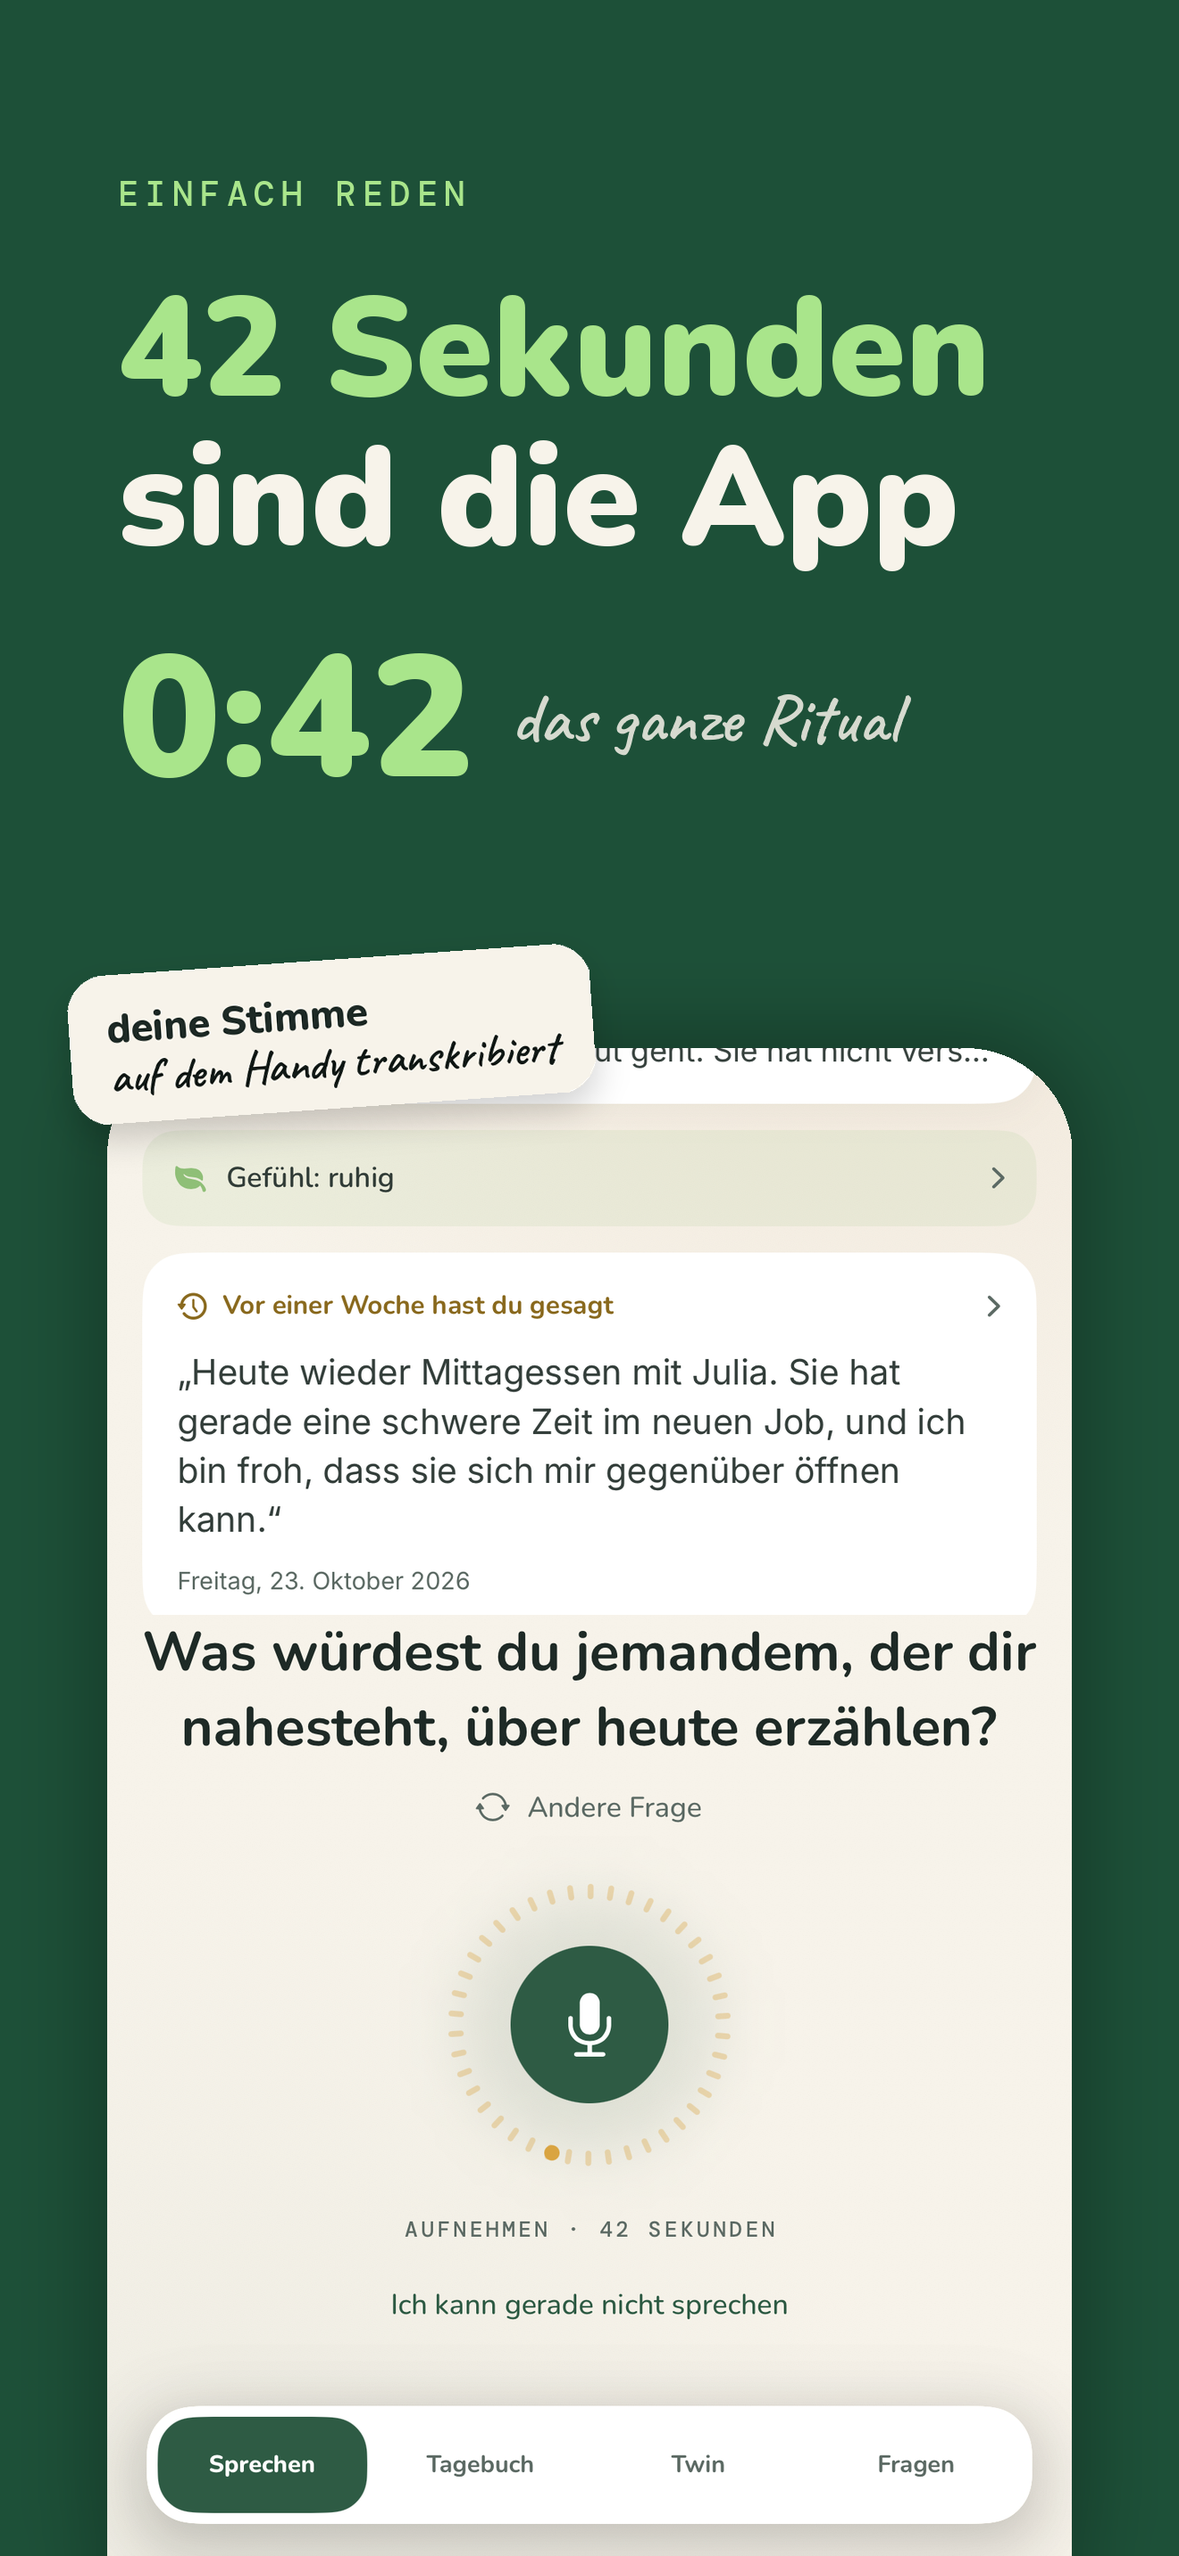
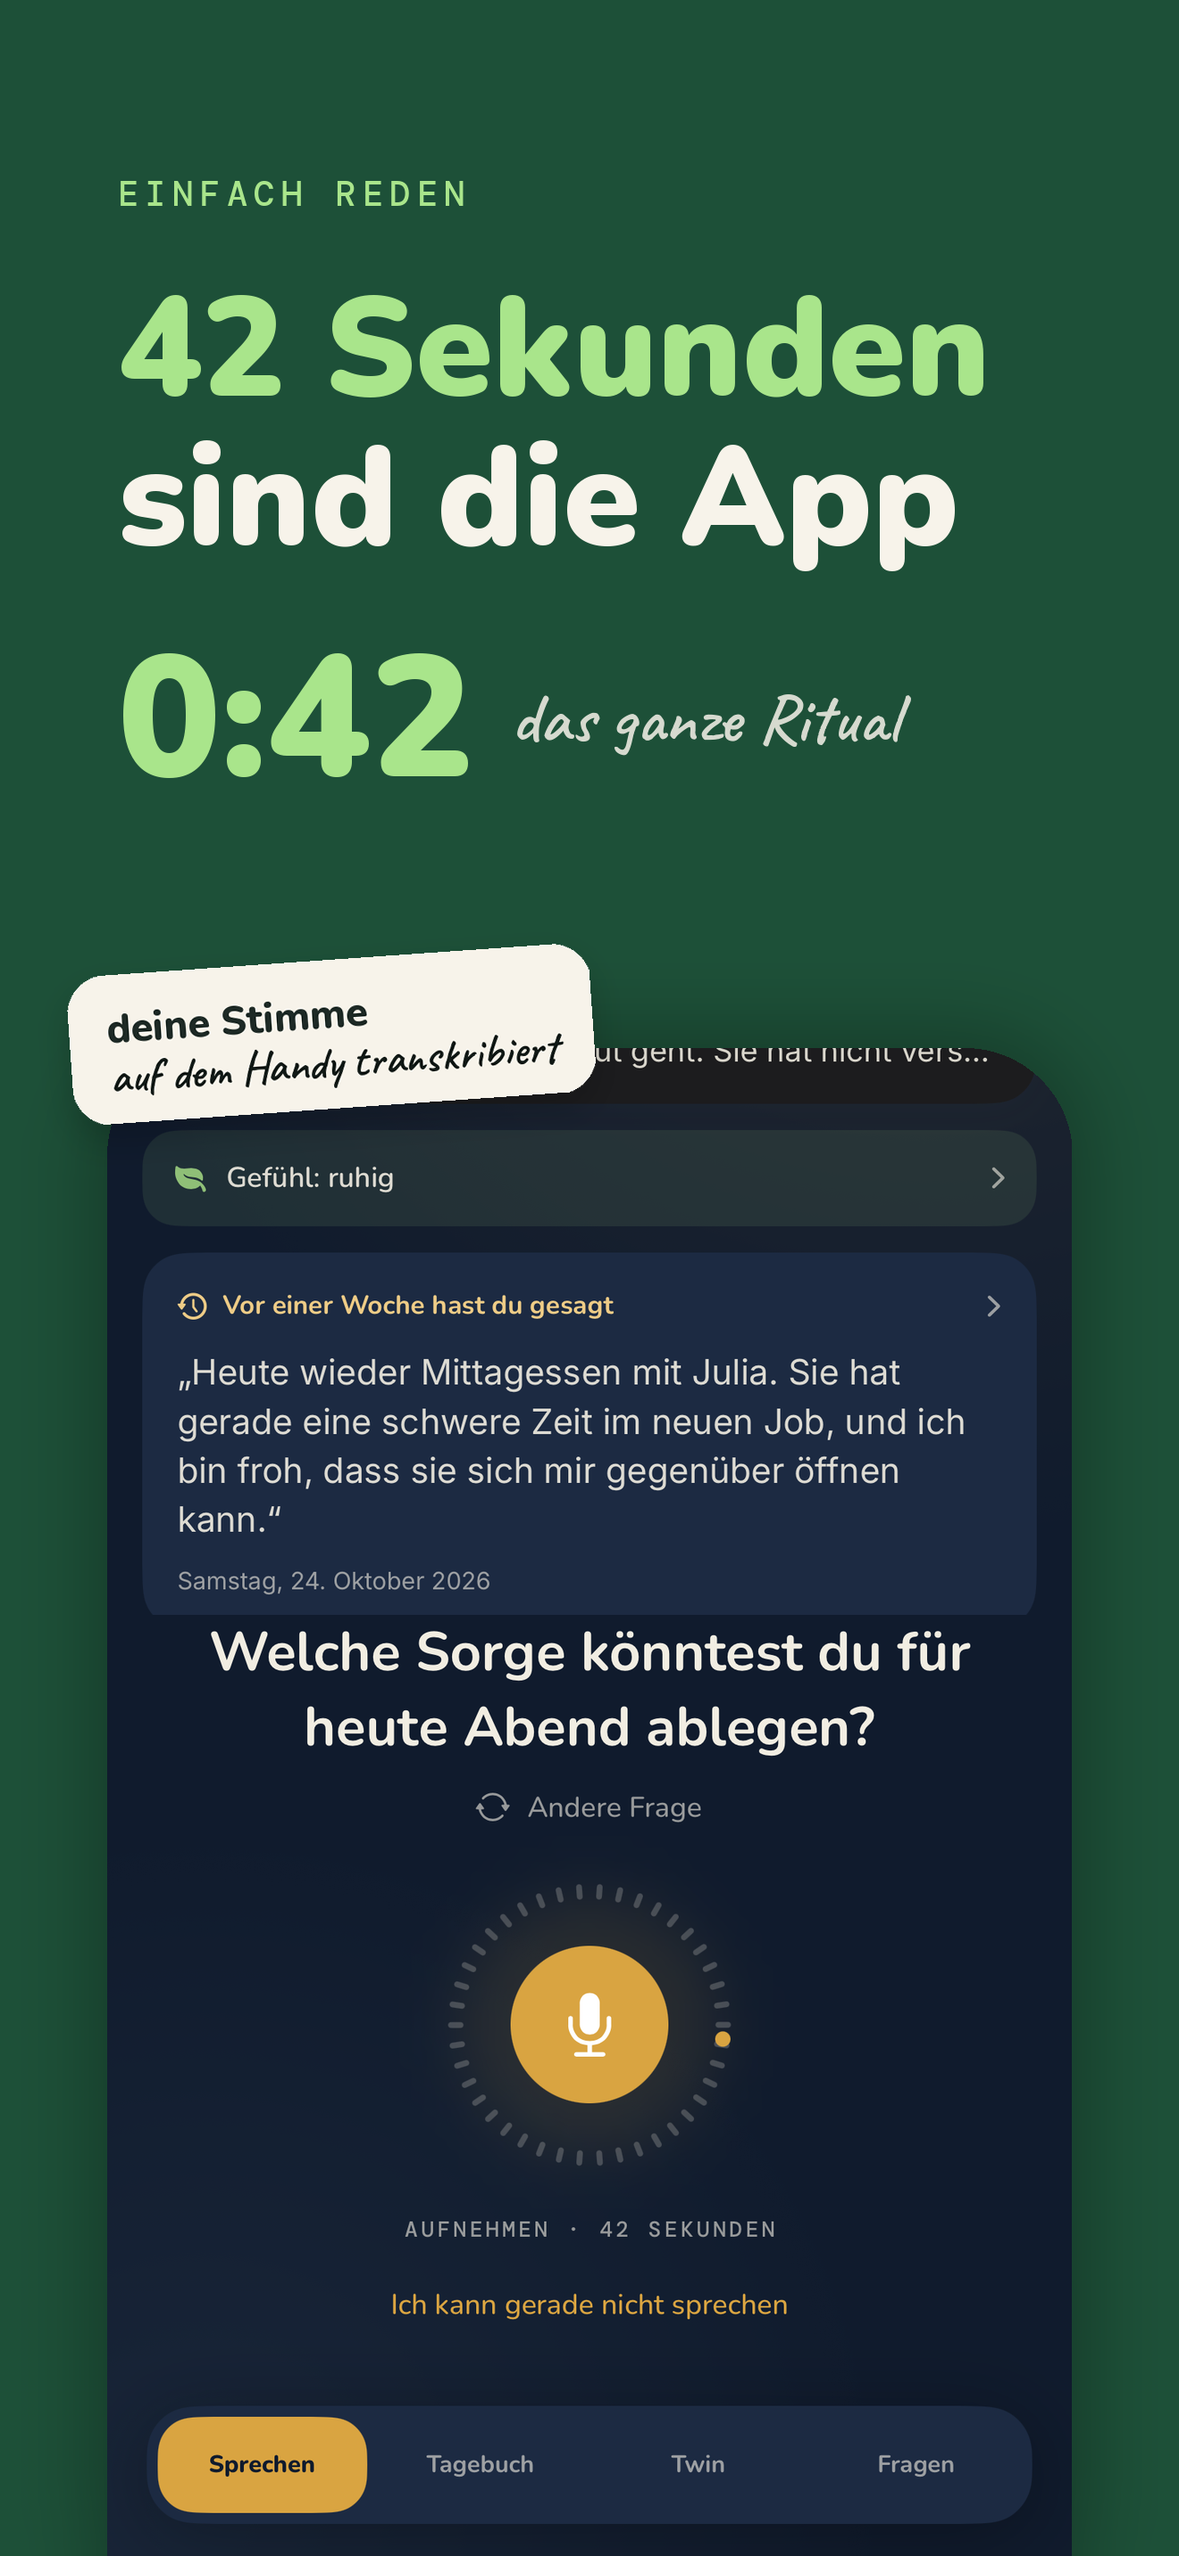
store: Ask your Twin and word search in the localized screenshot sets
Each of de-DE, es-ES, fr-FR, it and pt-BR is now ten frames: language,
sky, 42 seconds, Ask your Twin, search, streak, private, type it, share,
first star. Ask answers in the question's language since AskPhrases, and
search titles itself "Search your journal" with no match percentages
outside English, so both screens now say only what they do.

Each seed's cannedAsk is the locale's "what have I been avoiding saying
out loud?", picked so word overlap finds the seeded call-on-the-drive-home
entry instead of the abstention line. pt-BR keeps Ask: LanguageGate lists
.askTwin for "pt" and AskPhrases has a Portuguese frame.

Captions: the Ask gloss no longer says "3 entries cited, every time"; it
says the entries are quoted verbatim. The es-ES and pt-BR stickers say 2
cited, which is what those answers show.

make_screenshots.sh pins the Night theme: the default Sunset theme follows
the real clock, so a morning run came out in Day colours next to sets shot
in the evening. THEME=Day overrides it.

Journals and captions are still unreviewed machine drafts.

diff --git a/ios/AppStore/screenshot-src/make_frames.py b/ios/AppStore/screenshot-src/make_frames.py
@@ -306,15 +306,13 @@ SIZES = {
 #   · 00 leads: the language is the news for these users. It sits over the
 #     journal in that language, not the Language-you-speak picker, which lists
 #     every language Apple can transcribe and would claim far more than five.
-#   · 04 is captioned for WORD search (meaning search is English-only) but
-#     left out for now: the search screen itself is still titled "Search by
-#     meaning" and shows match percentages in every language. It comes back
-#     when that screen says what it does.
-#   · 03 Ask your Twin is left out everywhere for now. The engine's answer
-#     frame is English ("From your journal, the closest I have to that is…",
-#     and the abstention line), so a German question gets an English answer
-#     around German quotes. It comes back once those lines are localized, and
-#     never for pt-BR, which the app does not name as an Ask language (#127).
+#   · 03 Ask your Twin answers in the question's language (AskPhrases): the
+#     frame around the quotes, the dates and the abstention line. Each seed's
+#     cannedAsk is chosen so the answer quotes a seeded entry, not the
+#     abstention. pt-BR is in: LanguageGate lists .askTwin for "pt" and
+#     AskPhrases has a Portuguese frame.
+#   · 04 is WORD search (meaning search is English only), captioned as such.
+#     The screen says so too since 1.14: "Search your journal", no "% match".
 #   · 10 drops: 00 already shows the journal.
 LANGUAGE_FRAME = dict(name="00_your_language", shot="journal.png",
                       bg="#2A2357", fg="#F1EDE2", accent="#F2C14E",
@@ -322,6 +320,7 @@ LANGUAGE_FRAME = dict(name="00_your_language", shot="journal.png",
                                    pos=(int(232 * 3), int(560 * 3))))
 LOCALE_FRAMES = {
     "default": ["00_your_language", "01_a_sky_made_of_you", "02_42_seconds",
+                "03_answers_with_receipts", "04_describe_find",
                 "05_streak", "06_private_by_design",
                 "08_cant_talk_type_it", "09_share_a_star", "07_first_star"],
 }
